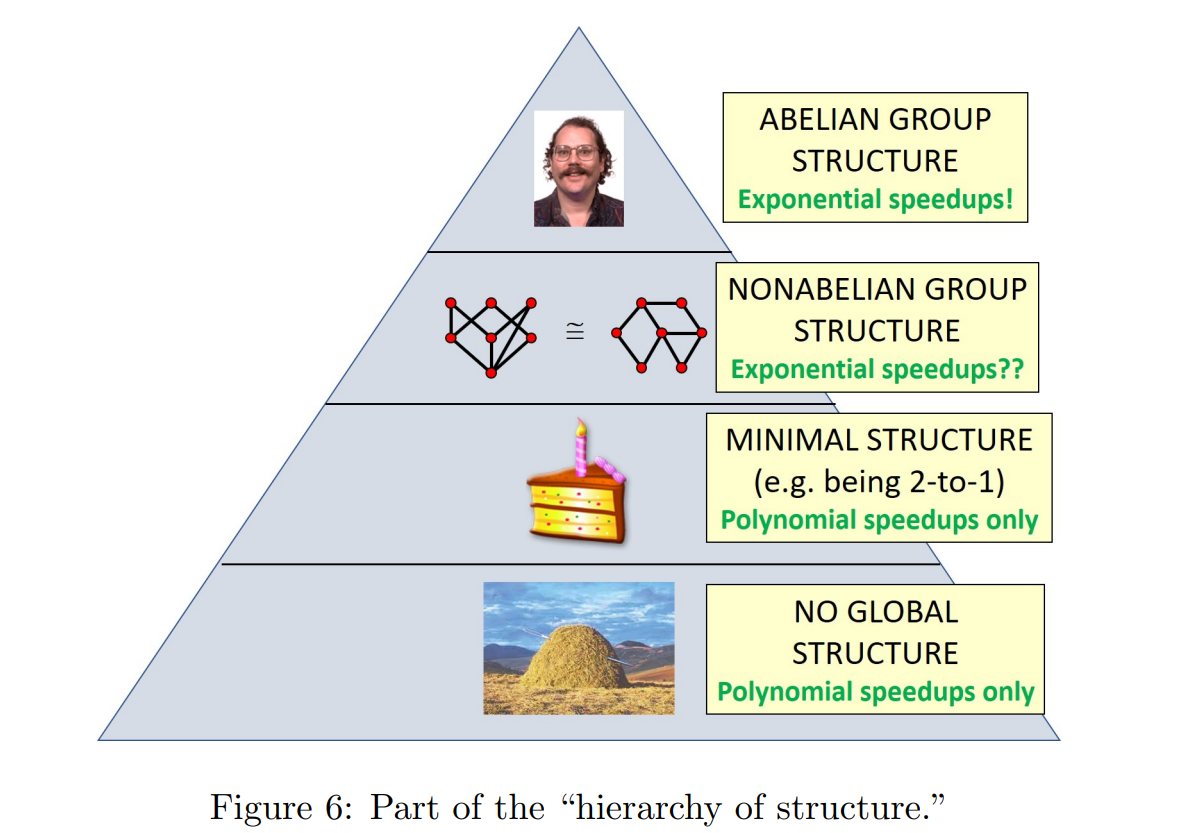
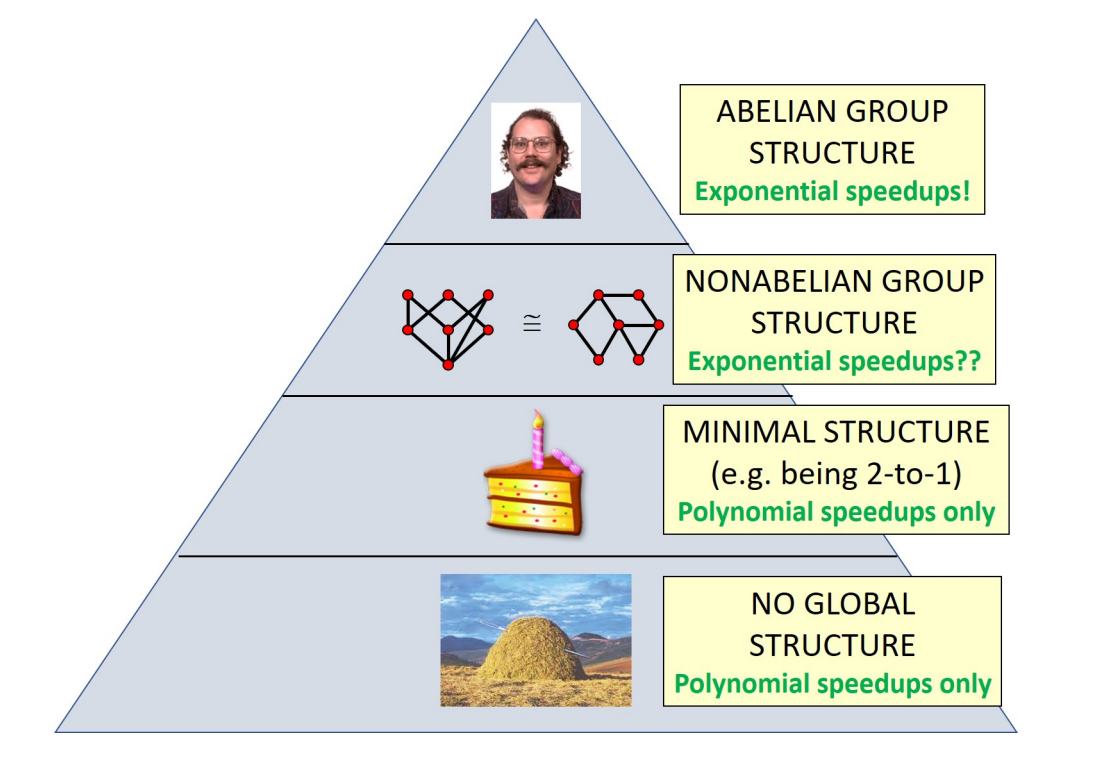
crop fig6 and add target void

diff --git a/demonstrations/tutorial_period_finding.py b/demonstrations/tutorial_period_finding.py
@@ -9,6 +9,7 @@ While trends may have moved on, the idea of extracting group structure from the 
 .. figure:: ../_static/demonstration_assets/period_finding/aaronson_fig6.png
     :align: center
     :width: 75%
+    :target: javascript:void(0);
 
 However, group theory is a huge hurdle for even some of the more seasoned quantum enthusiasts. This demo wants to give a glimpse of what this "Abelian structure" is all about. Luckily, the fruit-fly example of a hidden subgroup problem is just the task of finding the period of a integer valued function - something one can appreciate without much group jargon. A fantastic resource to read up on the basics is the review of hidden subgroup problems by Childs & van Dam (2010) [#Childs2010]_.
 """
@@ -26,6 +27,7 @@ However, group theory is a huge hurdle for even some of the more seasoned quantu
 # .. figure:: ../_static/demonstration_assets/period_finding/periodic_function.png
 #    :align: center
 #    :width: 70%
+#    :target: javascript:void(0);
 #
 # Importantly, we assume that we have *black-box access* to that function. For a python coder this 
 # abstract technical term is actually quite intuitive: imagine some part of your code returns a python function ``f`` 
@@ -63,6 +65,7 @@ However, group theory is a huge hurdle for even some of the more seasoned quantu
 # .. figure:: ../_static/demonstration_assets/period_finding/periodic_function_groups.png
 #    :align: center
 #    :width: 70%
+#    :target: javascript:void(0);
 #
 # This jargon hopefully does not scare you, but should illustrate that
 # period finding --- and the algorithm we will have a look at here --- can be generalised to other groups and
